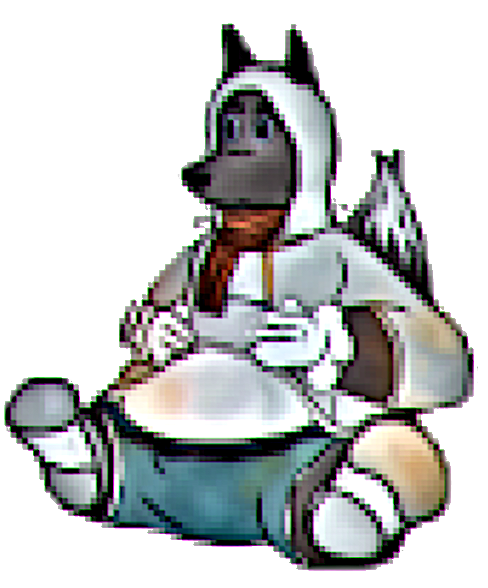
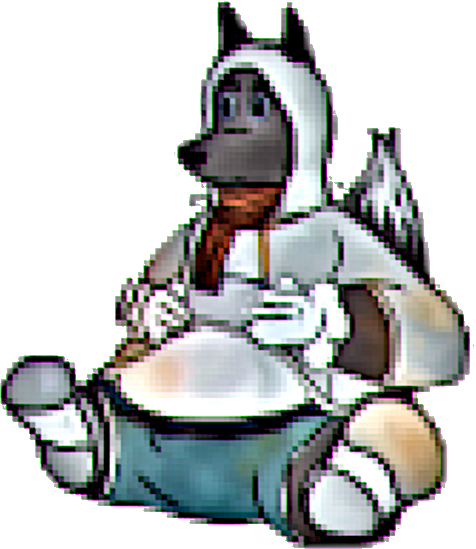
fix: Editing reply removes its target prompt
- Issue was breaking the scenario if a reply was edited.
- Also fixes prompt and replies font sizes
- Also fixes character image size

diff --git a/qml/Main.qml b/qml/Main.qml
@@ -122,9 +122,8 @@ ApplicationWindow {
 						}
 
 						onActivated: {
-							Game.setSetting("Main/sLastScenario",
-									    currentText)
-						}
+							Game.setSetting("Main/sLastScenario", currentText)
+						}				
 					}
 
 					Binding {
@@ -132,8 +131,7 @@ ApplicationWindow {
 						property: "currentIndex"
 						value: {
 							cbo_selectScenario.count
-							let lastScenario = Game.setting(
-								    "Main/sLastScenario")
+							let lastScenario = Game.setting("Main/sLastScenario")
 							if (lastScenario)
 								cbo_selectScenario.currentIndex = cbo_selectScenario.find(lastScenario)
 						}
@@ -221,7 +219,7 @@ ApplicationWindow {
 
 				width: game.width
 				font.family: "serif"
-				font.pixelSize: 25
+				font.pixelSize: promptview.height * 0.15
 				padding: 10
 				text: Game.currentPrompt ? Game.currentPrompt.text : "empty prompt"
 
@@ -268,11 +266,15 @@ ApplicationWindow {
 
 			Image {
 				id: character
-				x: game.width - width - 10
-				y: -game.height / 2
+				anchors.right: parent.right
+				anchors.bottom: parent.bottom
+				anchors.bottomMargin: 50
 
-				height: app.height - 25
+				width: app.width / 2 - 100
+				height: app.height - 50
 				fillMode: Image.PreserveAspectFit
+				horizontalAlignment: Qt.AlignRight
+				verticalAlignment: Qt.AlignBottom
 				source: Game.currentPrompt && Game.currentPrompt.character
 					  ? Game.getAbsolutePath() + "/resources/" + Game.getCharacter(Game.currentPrompt.character).sprite
 					  : "";
@@ -281,7 +283,7 @@ ApplicationWindow {
 			Column {
 				id: repliesView
 
-				width: replies.width - character.width - 25
+				width: replies.width - character.paintedWidth - 25
 				x: 25
 				anchors.verticalCenter: replies.verticalCenter
 				spacing: 10
@@ -295,8 +297,9 @@ ApplicationWindow {
 						property int index: model.index
 
 						width: repliesView.width * 0.9
-						height: 40
+						height: font.pixelSize + 20
 						text: modelData.text
+						font.pixelSize: replies.height * 0.1
 
 						onClicked: {
 							GameScript.displayPrompt(
@@ -327,7 +330,7 @@ ApplicationWindow {
 				}
 				MenuItem {
 					text: "Go back"
-					enabled: Game.currentPrompt.parentPromptId !== ""
+					enabled: Game.currentPrompt.parentId !== ""
 					onTriggered: GameScript.displayPrompt(Game.currentPrompt.parentId)
 				}
 				MenuItem {

diff --git a/qml/dialogs/DeleteScenario.qml b/qml/dialogs/DeleteScenario.qml
@@ -5,8 +5,8 @@ import "../../scripts/gamescript.js" as GameScript
 
 Dialog {
 	id: dialog_removeScenario
-	width: 400
-	height: 350
+	width: 300
+	height: 250
 	title: "Delete scenario?"
 	standardButtons: Dialog.Yes | Dialog.No
 	anchors.centerIn: Overlay.overlay
@@ -15,5 +15,8 @@ Dialog {
 		text: "Are you sure you want to nuke scenario '" + cbo_selectScenario.currentText + "'."
 	}
 
-	onAccepted: Game.deleteScenario(cbo_selectScenario.currentText)
+	onAccepted: {
+		Game.deleteScenario(cbo_selectScenario.currentText)
+		cbo_selectScenario.currentIndex = 0
+	}
 }

diff --git a/qml/dialogs/EditReply.qml b/qml/dialogs/EditReply.qml
@@ -40,7 +40,10 @@ Dialog {
 	}
 
 	onAccepted: {
-		reply.text = GameScript.parseStr(dialog_editReply_text.text)
-		reply.target = checkbox.checked ? dialog_editReply_target.value : null
+		//reply.text = GameScript.parseStr(dialog_editReply_text.text)
+		reply.text = dialog_editReply_text.text
+
+		if (checkbox.checked)
+			reply.target = dialog_editReply_target.value
 	}
 }

diff --git a/qml/dialogs/AddScenario.qml b/qml/dialogs/AddScenario.qml
@@ -9,6 +9,8 @@ Dialog {
 	anchors.centerIn: Overlay.overlay
 	height: 300
 
+	property alias name: dialog_addScenario_text.text
+
 	Label {
 		text: "Scenario name"
 		TextField {
@@ -19,8 +21,6 @@ Dialog {
 	}
 
 	onAccepted: {
-		let name = dialog_addScenario_text.text
 		Game.createScenario(name)
-		cbo_selectScenario.currentIndex = cbo_selectScenario.find(name)
 	}
 }

diff --git a/qml/dialogs/EditCharacters.qml b/qml/dialogs/EditCharacters.qml
@@ -90,7 +90,11 @@ Dialog {
 
 	onOpened: lview.model = Game.getCharacters()
 
-	onAccepted: GameScript.displayPrompt(Game.currentPrompt.id)
+	onAccepted: {
+		Game.saveScenario()
+		Game.loadScenario(Game.getScenarioName())
+		GameScript.displayPrompt(Game.currentPrompt.id)
+	}
 
 	Dialog {
 		id: edit_dialog

diff --git a/qml/dialogs/AddScenarioProfile.qml b/qml/dialogs/AddScenarioProfile.qml
@@ -24,4 +24,6 @@ Dialog {
 		GameScript.displayPrompt("0")
 		appmenu.height = 0
 	}
+
+
 }

diff --git a/include/game.hpp b/include/game.hpp
@@ -15,10 +15,11 @@ class Game : public QObject
 	Q_OBJECT
 	Q_PROPERTY(Prompt* currentPrompt READ currentPrompt NOTIFY currentPromptChanged)
 public:
-	Q_INVOKABLE void createScenario(const QString& name);
-	Q_INVOKABLE void saveScenario();
-	Q_INVOKABLE void loadScenario(const QString& name);
-	Q_INVOKABLE void deleteScenario(const QString& name);
+	Q_INVOKABLE QString getScenarioName();
+	Q_INVOKABLE void	  createScenario(const QString& name);
+	Q_INVOKABLE void	  saveScenario();
+	Q_INVOKABLE void	  loadScenario(const QString& name);
+	Q_INVOKABLE void	  deleteScenario(const QString& name);
 
 	Q_INVOKABLE void	   loadScenarioProfile(const QString& name);
 	Q_INVOKABLE Profile* getScenarioProfile();

diff --git a/src/game.cpp b/src/game.cpp
@@ -12,6 +12,10 @@
 #include <QUuid>
 #include <QXmlStreamReader>
 
+QString Game::getScenarioName() {
+	return m_scenario ? m_scenario->name() : "none";
+}
+
 void Game::createScenario(const QString& name) {
 	m_scenario = new Scenario(name);
 	m_scenario->create();
